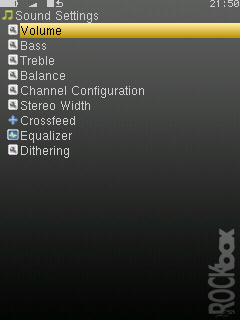
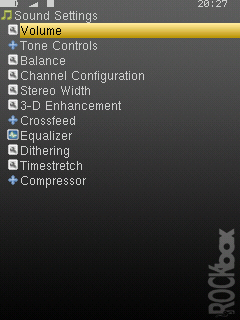
Manual: The gigabeat S has hardware tone controls instead of bass/treble settings, so update the manual to reflect this.  Also update the sound settings screen shot.
git-svn-id: svn://svn.rockbox.org/rockbox/trunk@28095 a1c6a512-1295-4272-9138-f99709370657

diff --git a/manual/configure_rockbox/sound_settings.tex b/manual/configure_rockbox/sound_settings.tex
@@ -31,7 +31,8 @@ change to customise your listening experience.
   \opt{ipodvideo}{\\Remark: Lowering the volume below -57~dB will also affect the line-out 
   and the recording gain.}
   \opt{cowond2}{\\Remark: Lowering the volume below -57~dB will also affect the line-out.}
-  
+
+\nopt{gigabeats}{  
 \section{Bass}
   This setting emphasises
   \nopt{h100,h300}{or suppresses}
@@ -72,6 +73,66 @@ change to customise your listening experience.
   The setting has a range from 1 to 4, where a bigger number affects a smaller
   range of treble frequencies. The actual cutoff frequency used for each setting
   value will vary with sample rate.
+}
+}
+
+\opt{gigabeats}{
+\section{Tone Controls}
+  There is a five-band equalizer built into your \dap{} that allows you to
+  control various different parameters for each band.  This equalizer is
+  implemented in hardware, and therefore does not tax the processor when in use.
+  Rockbox also features a more advanced five-band equalizer (see
+  \reference{ref:EQ}) that is implemented in software and allows more fine
+  grained control, but also requires more processor time. 
+
+  \begin{description}
+  \item[Band 1 Gain.]
+        This band acts as a low shelf filter that boosts or lowers all
+        frequencies below a certain frequency limit, much as a ``bass''
+        control found on ordinary stereo systems does. The ``gain'' parameter
+        controls how much the loudness of the band is adjusted. Positive
+        numbers make the EQ band louder, while negative numbers make that EQ
+        band quieter.
+  \item[Bands 2-4 Gain.]
+        These bands act as peaking filters that boost or lower a frequency
+        range centered at a certain frequency. Graphic equalizers in home
+        stereos are usually peaking filters. The ``gain'' parameter controls
+        how much each band is adjusted as with the the low shelf filter.
+  \item[Band 5 Gain.]
+        Band 5 acts as a high shelf filter, boosting or lowering all
+        frequencies above a certain frequency limit, much like a ``treble''
+        control found on ordinary stereo systems does. As with the other bands,
+        ``gain'' controls how much each band is adjusted.
+  \item[Advanced Tone Control Settings.]
+        This submenu allows you to change advanced parameters for each band.
+  \end{description}
+  
+  As a general guide, EQ band 1 should be used for low frequencies, EQ bands 2
+  to 4 should be used for mids, and EQ band 5 should be used for highs.\\*
+
+  \subsection{Advanced Tone Control Settings}
+    As in the previous menu, the ``gain'' setting controls how much the
+    loudness of the band is adjusted.  In addition the following parameters
+    can be adjusted:  
+
+  \begin{description}
+    \item[Band 1 Frequency.]
+        The ``frequency'' parameter sets where the shelving starts to take
+        effect. For example, a cutoff frequency of 80~Hz will adjust only very
+        low frequencies. A cutoff frequency of 175~Hz, on the other hand, will
+        adjust a much wider range of bass frequencies.
+  \item[Bands 2-4 Frequency.]
+        The ``frequency'' parameter for these bands sets the centre frequency of
+        the range that is affected by the gain set.
+  \item[Bands 2-4 Width.]
+        This parameter sets the width of the range around the centre frequency
+        that is affected by the tone control. The possible settings are
+        ``wide'' or ``narrow''.
+  \item[Band 5 Frequency.]
+        This works just as for band 1 frequency, except that it affects the
+        high frequency end of the spectrum instead of the low.
+  \end{description}
+
 }
 
 \section{Balance}
@@ -265,15 +326,17 @@ change to customise your listening experience.
   \screenshot{configure_rockbox/images/ss-equalizer}{The graphical equalizer}{}
   Rockbox features a parametric equalizer (EQ). As the name suggests, a
   parametric EQ lets you control several different parameters for each
-  band of the EQ. In some ways the EQ is similar to the \setting{Bass}
-  and \setting{Treble} settings described earlier, but the EQ allows you to
-  control the sound much more carefully.\\
+  band of the EQ. \nopt{gigabeats}{In some ways the EQ is similar to the
+  \setting{Bass} and \setting{Treble} settings described earlier, but the EQ
+  allows you to control the sound much more carefully.} \opt{gigabeats}{The EQ
+  is similar to the \setting{Tone Controls} described above, but allows more
+  delicate control.}\\
 
   Rockbox's parametric EQ is composed of five different bands:
   \begin{description}
   \item[Band 0: Low shelf filter.]
         The low shelf filter boosts or lowers all frequencies below a certain
-        frequency limit, much like what a ``bass'' control found on ordinary
+        frequency limit, much as the ``bass'' control found on ordinary
         stereo systems does.
         Adjust the ``cutoff'' frequency parameter to decide where the shelving
         starts to take effect. For example, a cutoff frequency of 50~Hz will
@@ -301,7 +364,7 @@ change to customise your listening experience.
         frequencies.
   \item[Band 4: High shelf filter.]
         A high shelf filter boosts or lowers all frequencies above a certain
-        frequency limit, much like what a ``treble'' control found on ordinary
+        frequency limit, much as the ``treble'' control found on ordinary
         stereo systems does.
         The high shelf filter is adjusted the same way as the low shelf filter,
         except that it works on the high end of the frequency spectrum rather
